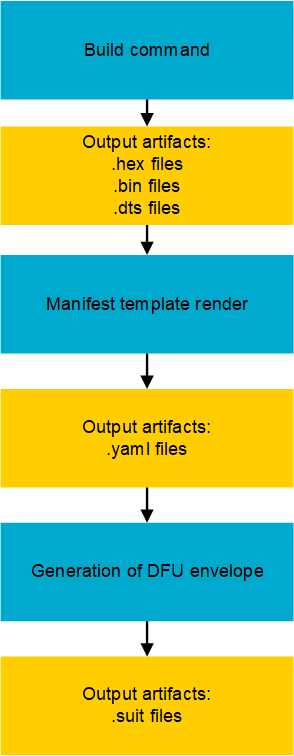
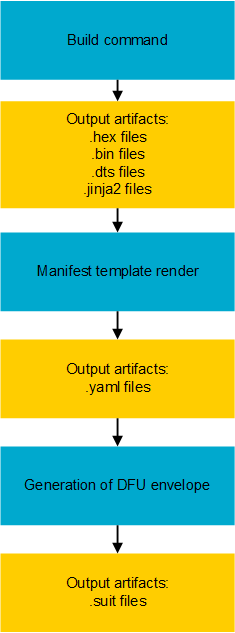
doc: improve suit ug
Improve SUIT how to customize DFU ug
And small change to SUIT sample

diff --git a/doc/nrf/working_with_nrf/nrf54h/ug_nrf54h20_suit_customize_dfu.rst b/doc/nrf/working_with_nrf/nrf54h/ug_nrf54h20_suit_customize_dfu.rst
@@ -7,15 +7,14 @@ How to customize the SUIT DFU process
    :local:
    :depth: 2
 
-Nordic Semiconductor provides samples in which the build system uses predefined configuration (Kconfig options) by default.
-These Kconfig options can be updated to change the artifacts produced by the build system, customize the DFU process, and integrate the DFU solution with external build systems.
+Nordic Semiconductor provides a SUIT sample (:ref:`nrf54h_suit_sample`) in which the build system uses predefined configuration.
+The specified Kconfig options in the sample can be used to modify the artifacts produced by the build system, customize the DFU process, and integrate the DFU solution with external build systems.
 
 .. note::
     In order to customize the SUIT DFU process, we strongly recommend that you modify the values in the manifest that are associated with the ID values that are configured into the device.
     This includes both the ``class-identifier`` and ``vendor-identifier`` values found in manifest(s).
 
-    For more advanced use cases, you can modify values in the manifest using component types.
-    See the :ref:`ug_nrf54h20_suit_components` page for more information.
+    For additional modifications mentioned in this guide, see the :ref:`ug_nrf54h20_suit_components` page.
 
 This guide provides a range of instructions and details for how to modify values in the SUIT manifest.
 See the :ref:`ug_suit_customize_manifest_quick` section of this document for brief instructions on how to make modifications.
@@ -56,7 +55,7 @@ Let us assume that you would like to store the editable manifest templates in th
 
       .. code-block:: console
 
-         west build -d C:\ncs-lcs\west_working_dir\build\ -b nrf54h20dk_nrf54h20_cpuapp@soc1 -p -- -DCONFIG_SUIT_ENVELOPE_EDITABLE_TEMPLATES_LOCATION="C:/my_templates"
+         west build -d C:/ncs-lcs/work_dir/build/ -b nrf54h20dk_nrf54h20_cpuapp@soc1 -p -- -DCONFIG_SUIT_ENVELOPE_EDITABLE_TEMPLATES_LOCATION="C:/my_templates"
 
    .. group-tab:: Linux
 
@@ -83,7 +82,7 @@ How to use your own manifest
 
 Let us analyze the case where you would like to:
 
-* Use your own created manifest, as the default by the build system
+* Use your own created manifest template
 
 * Store editable manifest templates in a custom directory
 
@@ -92,12 +91,12 @@ Let us analyze the case where you would like to:
     .. group-tab:: Windows
 
         The provided manifest templates are stored in ``C:\my_default_templates``.
-        Edit manifests should be stored in ``C:\my_templates``.
+        Editable manifests should be stored in ``C:\my_templates``.
 
     .. group-tab:: Linux
 
         The provided manifest templates are stored in ``/home/my_user/my_default_templates``.
-        Edit manifests should be stored in ``/home/my_user/my_templates``.
+        Editable manifests should be stored in ``/home/my_user/my_templates``.
 
 The following files should be used to create DFU envelope:
 
@@ -122,7 +121,7 @@ To build the described example with the provided manifest templates taken from y
 
         .. code-block:: console
 
-            west build -d C:\ncs-lcs\west_working_dir\build\ -b nrf54h20dk_nrf54h20_cpuapp@soc1 -p -- -DCONFIG_SUIT_ENVELOPE_EDITABLE_TEMPLATES_LOCATION="c:/my_templates" -DCONFIG_SUIT_ENVELOPE_ROOT_TEMPLATE="c:/my_default_templates/root.yaml.jinja2" -DCONFIG_SUIT_ENVELOPE_APP_TEMPLATE="c:/my_default_templates/app.yaml.jinja2" -DCONFIG_SUIT_ENVELOPE_HCI_RPMSG_SUBIMAGE_TEMPLATE="c:/my_default_templates/radio.yaml.jinja2"
+            west build -d C:/ncs-lcs/work_dir/build/ -b nrf54h20dk_nrf54h20_cpuapp@soc1 -p -- -DCONFIG_SUIT_ENVELOPE_EDITABLE_TEMPLATES_LOCATION="c:/my_templates" -DCONFIG_SUIT_ENVELOPE_ROOT_TEMPLATE="c:/my_default_templates/root.yaml.jinja2" -DCONFIG_SUIT_ENVELOPE_APP_TEMPLATE="c:/my_default_templates/app.yaml.jinja2" -DCONFIG_SUIT_ENVELOPE_HCI_RPMSG_SUBIMAGE_TEMPLATE="c:/my_default_templates/radio.yaml.jinja2"
 
     .. group-tab:: Linux
 
@@ -186,7 +185,7 @@ An example of a YAML representation for a basic installation and invoke-process 
                    suit-parameter-class-identifier:
                     RFC4122_UUID:                                    # Class identifier values
                         namespace: nordicsemi.com
-                            name: nRF54H20_sample_app
+                        name: nRF54H20_sample_app
                    suit-parameter-image-digest:
                     suit-digest-algorithm-id: cose-alg-sha-256
                     suit-digest-bytes:
@@ -231,25 +230,54 @@ Modify ``class-identifier`` and ``vendor-identifier``
 
 To update the ``class-identifier`` and ``vendor-identifier`` values in the :file:`app_envelope_yam.jinja2` file, edit the following lines as shown in this example:
 
+Before modification:
+
 .. code-block::
 
   - suit-directive-override-parameters:
       suit-parameter-vendor-identifier:
-         RFC4122_UUID: ACME Corp              # Change the vendor-identifier
+         RFC4122_UUID: nordicsemi.com         # Original vendor-identifier value
       suit-parameter-class-identifier:
-         RFC4122_UUID:                        # Change the values for the class-identifier
+         RFC4122_UUID:
+           namespace: nordicsemi.com          # Original class-identifier values
+           name: nrf54H20_sample_app
+
+
+After modification:
+
+.. code-block::
+
+  - suit-directive-override-parameters:
+      suit-parameter-vendor-identifier:
+         RFC4122_UUID: ACME Corp              # Changed vendor-identifier value
+      suit-parameter-class-identifier:
+         RFC4122_UUID:                        # Changed class-identifier values
            namespace: ACME Corp
            name: Light bulb
 
+
 Alternatively, you can also define raw values like so:
+
+Before modification:
 
 .. code-block::
 
   - suit-directive-override-parameters:
       suit-parameter-vendor-identifier:
-         raw: bf42bd2ea9895f22933b352cda1730d3
+         raw: 7617daa571fd5a858f94e28d735ce9f4     # Original raw value
       suit-parameter-class-identifier:
-         raw: e0f94076c46a5a1e80a18d3e674bdfe0
+         raw: 08c1b59955e85fbc9e767bc29ce1b04d     # Original raw value
+
+
+After modification:
+
+.. code-block::
+
+  - suit-directive-override-parameters:
+      suit-parameter-vendor-identifier:
+         raw: bf42bd2ea9895f22933b352cda1730d3     # Changed raw value
+      suit-parameter-class-identifier:
+         raw: e0f94076c46a5a1e80a18d3e674bdfe0     # Changed raw value
 
 Python to generate UUIDs
 ^^^^^^^^^^^^^^^^^^^^^^^^
@@ -266,7 +294,7 @@ Note that the UUID raw values in the previous example have been calculated using
 
 
 .. note::
-    For the development releases (CS 2.0 and 3.0) only the predefined, presented values are supported.
+    For the development releases (CS 0.2.0 and 0.3.0) only the predefined, presented values are supported.
 
 .. _ug_suit_var_methods_in_manifest:
 
@@ -342,28 +370,35 @@ Root manifest template
 ----------------------
 
 The :file:`root_hierarchical_envelope.yaml.jinja2` (found `here <https://github.com/nrfconnect/suit-generator/blob/main/ncs/root_hierarchical_envelope.yaml.jinja2>`__) contains content that is dynamically created, depending on how many targets are built.
-The following example only shows a selected portion of the root manifest.
-For more information, see the file available in the sample and Jinja2 documentation):
+The following example only shows a selected portion of the root manifest file.
+For more information, see the file available in the sample and `Jinja <https://jinja.palletsprojects.com/en/3.1.x/>`__ documentation:
 
 .. code-block::
 
-   {%- set component_index = 0 %}
-   {%- set component_list = [] %}
+   {%- set component_index = 0 %}                                                  # Initialize the `component_index variable`.
+                                                                                   # This variable will be used to assign component indexes dynamically depending on
+                                                                                   # how many cores have been built.
+
+
+   {%- set component_list = [] %}                                                  # Initialize the `component_list variable`.
+                                                                                   # This variable will be used to execute `suit-directive-set-component-index` over
+                                                                                   # all components, except the first one with index 0.
+
    SUIT_Envelope_Tagged:
       suit-authentication-wrapper:
          SuitDigest:
            suit-digest-algorithm-id: cose-alg-sha-256
       suit-manifest:
          suit-manifest-version: 1
-         suit-manifest-sequence-number: {{ version }}
+         suit-manifest-sequence-number: {{ version }}                              # Assign value defined in the `CONFIG_APP_VERSION` Kconfig option.
          suit-common:
             suit-components:
             - - CAND_MFST
             - 0
-   {%- if hci_rpmsg_subimage is defined %}
-      {%- set component_index = component_index + 1 %}
-      {%- set hci_rpmsg_subimage_component_index = component_index %}
-      {{- component_list.append( hci_rpmsg_subimage_component_index ) or ""}}
+   {%- if hci_rpmsg_subimage is defined %}                                         # Add section below only, in case the Radio Core has been already been built.
+      {%- set component_index = component_index + 1 %}                             # Increment `component_index`.
+      {%- set hci_rpmsg_subimage_component_index = component_index %}              # Store the current component index for further use.
+      {{- component_list.append( hci_rpmsg_subimage_component_index ) or ""}}      # Append the current component index to the common list.
         - - INSTLD_MFST
           - RFC4122_UUID:
               namespace: nordicsemi.com

diff --git a/samples/suit/smp_transfer/README.rst b/samples/suit/smp_transfer/README.rst
@@ -139,7 +139,7 @@ To build and program the sample to the nRF54H20 PDK, complete the following step
 
             .. code-block:: console
 
-               west build -p -b nrf54h20dk_nrf54h20_cpuapp@soc1 -d C:\ncs-lcs\west_working_dir\build\ -- -DOVERLAY_CONFIG=overlay-bt.conf -DCONFIG_APP_VERSION=1
+               west build -p -b nrf54h20dk_nrf54h20_cpuapp@soc1 -d C:/ncs-lcs/work-dir -- -DOVERLAY_CONFIG=overlay-bt.conf -DCONFIG_APP_VERSION=1
 
          If you want to further configure your sample, see :ref:`configure_application` for additional information.
 
@@ -168,7 +168,7 @@ To build and program the sample to the nRF54H20 PDK, complete the following step
 
             .. code-block:: console
 
-               west flash -d C:\ncs-lcs\west_working_dir\build\
+               west flash -d C:/ncs-lcs/work-dir
 
    .. group-tab:: Over UART
 
@@ -213,7 +213,7 @@ To build and program the sample to the nRF54H20 PDK, complete the following step
 
             .. code-block:: console
 
-               west flash -d C:\ncs-lcs\west_working_dir\build\
+               west flash -d C:/ncs-lcs/work-dir
 
 Building and programming using |nRFVSC|
 =======================================
@@ -244,7 +244,7 @@ After programming the sample to your development kit, complete the following ste
 
             .. code-block:: console
 
-               west build -p -b nrf54h20dk_nrf54h20_cpuapp@soc1 -d C:\ncs-lcs\west_working_dir\build\ -- -DOVERLAY_CONFIG=overlay-bt.conf -DCONFIG_APP_VERSION=2
+               west build -p -b nrf54h20dk_nrf54h20_cpuapp@soc1 -d C:/ncs-lcs/work-dir -- -DOVERLAY_CONFIG=overlay-bt.conf -DCONFIG_APP_VERSION=2
 
          Another :file:`root.suit` file is created after running this command, that contains the updated firmware.
 
@@ -316,7 +316,7 @@ After programming the sample to your development kit, complete the following ste
 
             .. code-block:: console
 
-               west build -p -b nrf54h20dk_nrf54h20_cpuapp@soc1 -d C:\ncs-lcs\west_working_dir\build\ -- -DCONFIG_APP_VERSION=2
+               west build -p -b nrf54h20dk_nrf54h20_cpuapp@soc1 -d C:/ncs-lcs/work-dir -- -DCONFIG_APP_VERSION=2
 
          Another :file:`root.suit` file is created after running this command, that contains the updated firmware.
 
